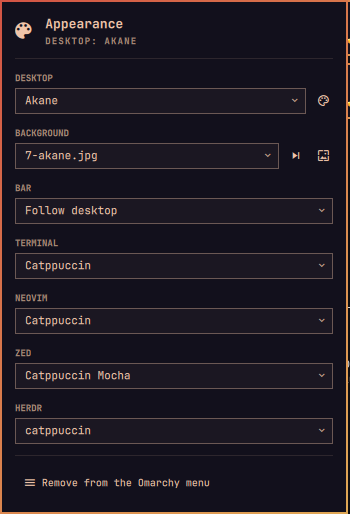
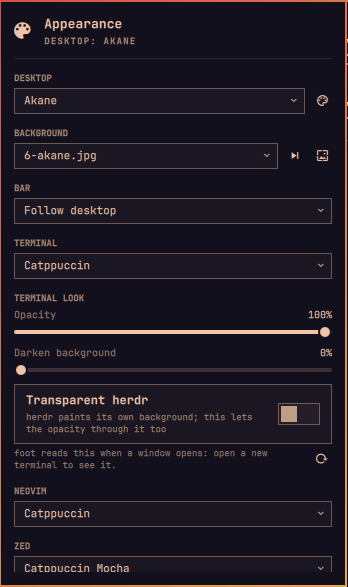
feat: tune the terminal's opacity and contrast from the panel
Add a Terminal look section with opacity, a darker background and an
option to let the opacity reach herdr, written to a Foot include that
sits after the theme one.

diff --git a/Panel.qml b/Panel.qml
@@ -31,6 +31,8 @@ Panel {
   readonly property string helper: Qt.resolvedUrl(".").toString().replace("file://", "") + "omarchy-appearance"
 
   readonly property var themeOptions: snapshot ? snapshot.themes : []
+  readonly property var look: snapshot && snapshot.look ? snapshot.look
+    : { available: false, opacity: 100, dim: 0, herdr: false }
   readonly property var followOptions: [{ value: "follow", label: "Follow desktop" }].concat(themeOptions)
 
   // Rows in display order; the cursor walks the visible ones.
@@ -56,6 +58,19 @@ Panel {
     setProc.target = target
     setProc.command = [root.helper, "set", target, value]
     setProc.running = true
+  }
+
+  function run(label, args) {
+    if (root.busyTarget !== "") return
+    root.busyTarget = label
+    root.statusText = "Applying " + label + "…"
+    setProc.target = label
+    setProc.command = [root.helper].concat(args)
+    setProc.running = true
+  }
+
+  function applyLook(key, value) {
+    root.run("terminal look", ["set", "look", key, String(value)])
   }
 
   // The native pickers grab the screen, so the panel gets out of the way.
@@ -293,6 +308,70 @@ Panel {
             value: root.snapshot ? root.snapshot.terminal : "follow"
           }
 
+          Column {
+            visible: root.look.available
+            width: parent.width
+            spacing: Style.spacing.labelGap
+
+            PanelSectionHeader {
+              text: "TERMINAL LOOK"
+              foreground: root.foreground
+              fontFamily: root.fontFamily
+            }
+
+            LookSlider {
+              label: "Opacity"
+              key: "opacity"
+              minimum: 50
+              maximum: 100
+              value: root.look.opacity
+            }
+
+            LookSlider {
+              label: "Darken background"
+              key: "dim"
+              minimum: 0
+              maximum: 60
+              value: root.look.dim
+            }
+
+            Toggle {
+              width: parent.width
+              label: "Transparent herdr"
+              description: "herdr paints its own background; this lets the opacity through it too"
+              checked: root.look.herdr
+              foreground: root.foreground
+              fontFamily: root.fontFamily
+              enabled: root.busyTarget === ""
+              onClicked: root.applyLook("herdr", root.look.herdr ? "off" : "on")
+            }
+
+            Row {
+              width: parent.width
+              spacing: Style.space(6)
+
+              Text {
+                width: parent.width - resetLook.width - parent.spacing
+                anchors.verticalCenter: resetLook.verticalCenter
+                text: "foot reads this when a window opens: open a new terminal to see it."
+                color: root.dim
+                font.family: root.fontFamily
+                font.pixelSize: Style.font.caption
+                wrapMode: Text.WordWrap
+              }
+
+              PanelActionButton {
+                id: resetLook
+                iconText: ""
+                tooltipText: "Reset the terminal look"
+                foreground: root.foreground
+                fontFamily: root.fontFamily
+                enabled: root.busyTarget === ""
+                onClicked: root.run("terminal look", ["look", "reset"])
+              }
+            }
+          }
+
           ThemeRow {
             rowName: "nvim"
             label: "NEOVIM"
@@ -341,6 +420,51 @@ Panel {
   }
 
   // --- building blocks -------------------------------------------------------
+  component LookSlider: Item {
+    id: lookSlider
+    property string label: ""
+    property string key: ""
+    property int minimum: 0
+    property int maximum: 100
+    property int value: 0
+
+    width: parent.width
+    implicitHeight: lookLabel.implicitHeight + slider.implicitHeight
+
+    Text {
+      id: lookLabel
+      text: lookSlider.label
+      color: root.dim
+      font.family: root.fontFamily
+      font.pixelSize: Style.font.bodySmall
+    }
+
+    Text {
+      anchors.right: parent.right
+      text: Math.round(slider.liveValue / 5) * 5 + "%"
+      color: root.foreground
+      font.family: root.fontFamily
+      font.pixelSize: Style.font.bodySmall
+    }
+
+    PanelSlider {
+      id: slider
+      anchors.top: lookLabel.bottom
+      width: parent.width
+      bar: root.bar
+      minimum: lookSlider.minimum
+      maximum: lookSlider.maximum
+      step: 5
+      integer: true
+      value: lookSlider.value
+      enabled: root.busyTarget === ""
+      onReleased: function(v) {
+        var snapped = Math.round(v / 5) * 5
+        if (snapped !== lookSlider.value) root.applyLook(lookSlider.key, snapped)
+      }
+    }
+  }
+
   component ThemeRow: Column {
     id: themeRow
     property string rowName: ""

diff --git a/README.md b/README.md
@@ -15,6 +15,7 @@ Omarchy bar or from the Omarchy menu (`Style → Appearance`).
 | Background | images of the current theme          | `omarchy theme bg set`, next, or the switcher    |
 | Bar        | *Follow desktop* or any Omarchy theme | managed `[bar]` block in `~/.config/omarchy/shell.toml` |
 | Terminal   | *Follow desktop* or any Omarchy theme | Ghostty, Alacritty, Kitty and Foot includes      |
+| Terminal look | opacity, darker background, transparent herdr (Foot only) | a second include in `~/.config/foot/foot.ini` |
 | Neovim     | *Follow desktop* or any Omarchy theme | `~/.config/nvim/lua/plugins/theme.lua` symlink   |
 | Zed        | themes Zed has (built-in + extensions) | `"theme"` in `~/.config/zed/settings.json`       |
 | herdr      | themes herdr ships                   | `[theme] name` in `~/.config/herdr/config.toml`  |
@@ -28,6 +29,24 @@ rendered by Omarchy's own templates (`omarchy-theme-set-templates`) into
 exactly like the Akane desktop terminal would. *Follow desktop* points the app
 back at `~/.local/state/omarchy/current/theme/`.
 
+## Terminal look
+
+Below the Terminal row, three controls tune Foot on top of whatever theme it
+shows:
+
+- **Opacity** (50–100%) sets Foot's `alpha`. Only the background fades; text
+  stays sharp, and Hyprland blurs what is behind the window.
+- **Darken background** (0–60%) mixes the theme's background with black for
+  more contrast. It is recomputed when the terminal or desktop theme changes,
+  through a `theme-set` hook in `~/.config/omarchy/hooks/theme-set.d/`.
+- **Transparent herdr** sets `alpha-mode=all`. herdr paints its own
+  background, so without it the opacity stops at herdr's panes.
+
+The values live in `~/.local/state/omarchy-appearance/look/`, and Foot reads
+them through `include=~/.local/state/omarchy-appearance/look/foot.ini`, added
+right after the theme include. The reset button removes the include, the
+state and the hook.
+
 ## Install
 
 ```bash
@@ -38,6 +57,15 @@ Enabling it adds the bar icon. To also reach the panel from the Omarchy menu,
 press *Add to the Omarchy menu* at the bottom of the panel: it adds a
 `Style → Appearance` row to `~/.config/omarchy/extensions/omarchy-menu.jsonc`,
 and the same button removes it.
+
+## Update
+
+```bash
+omarchy plugin update piazza.appearance
+```
+
+It shows the diff and fast-forwards to the latest commit. If the panel still
+shows the old controls afterwards, run `omarchy restart shell`.
 
 ## Dependencies
 
@@ -70,6 +98,10 @@ Everything the panel does is a call to the helper, which you can run directly:
 ./omarchy-appearance set bar tokyo-night
 ./omarchy-appearance set zed "Catppuccin Mocha"
 ./omarchy-appearance set herdr catppuccin
+./omarchy-appearance set look opacity 85
+./omarchy-appearance set look dim 20
+./omarchy-appearance set look herdr on
+./omarchy-appearance look reset
 ```
 
 ## Caveats
@@ -78,6 +110,9 @@ Everything the panel does is a call to the helper, which you can run directly:
   one does not, reopen it.
 - `omarchy refresh` of a terminal or Neovim config, or `omarchy reinstall`,
   restores the stock includes. Reapply the row from the panel afterwards.
+- Foot only reads its config when a window opens, so the terminal look
+  applies to new windows. Darken background does not reach herdr's own
+  background, only Foot's.
 - Setting a herdr theme turns its `auto_switch` off, otherwise herdr would
   replace the choice.
 
@@ -87,6 +122,7 @@ Everything the panel does is a call to the helper, which you can run directly:
 ~/.config/omarchy/plugins/piazza.appearance/omarchy-appearance set bar follow
 ~/.config/omarchy/plugins/piazza.appearance/omarchy-appearance set terminal follow
 ~/.config/omarchy/plugins/piazza.appearance/omarchy-appearance set nvim follow
+~/.config/omarchy/plugins/piazza.appearance/omarchy-appearance look reset
 ~/.config/omarchy/plugins/piazza.appearance/omarchy-appearance menu remove
 omarchy plugin remove piazza.appearance
 ```
